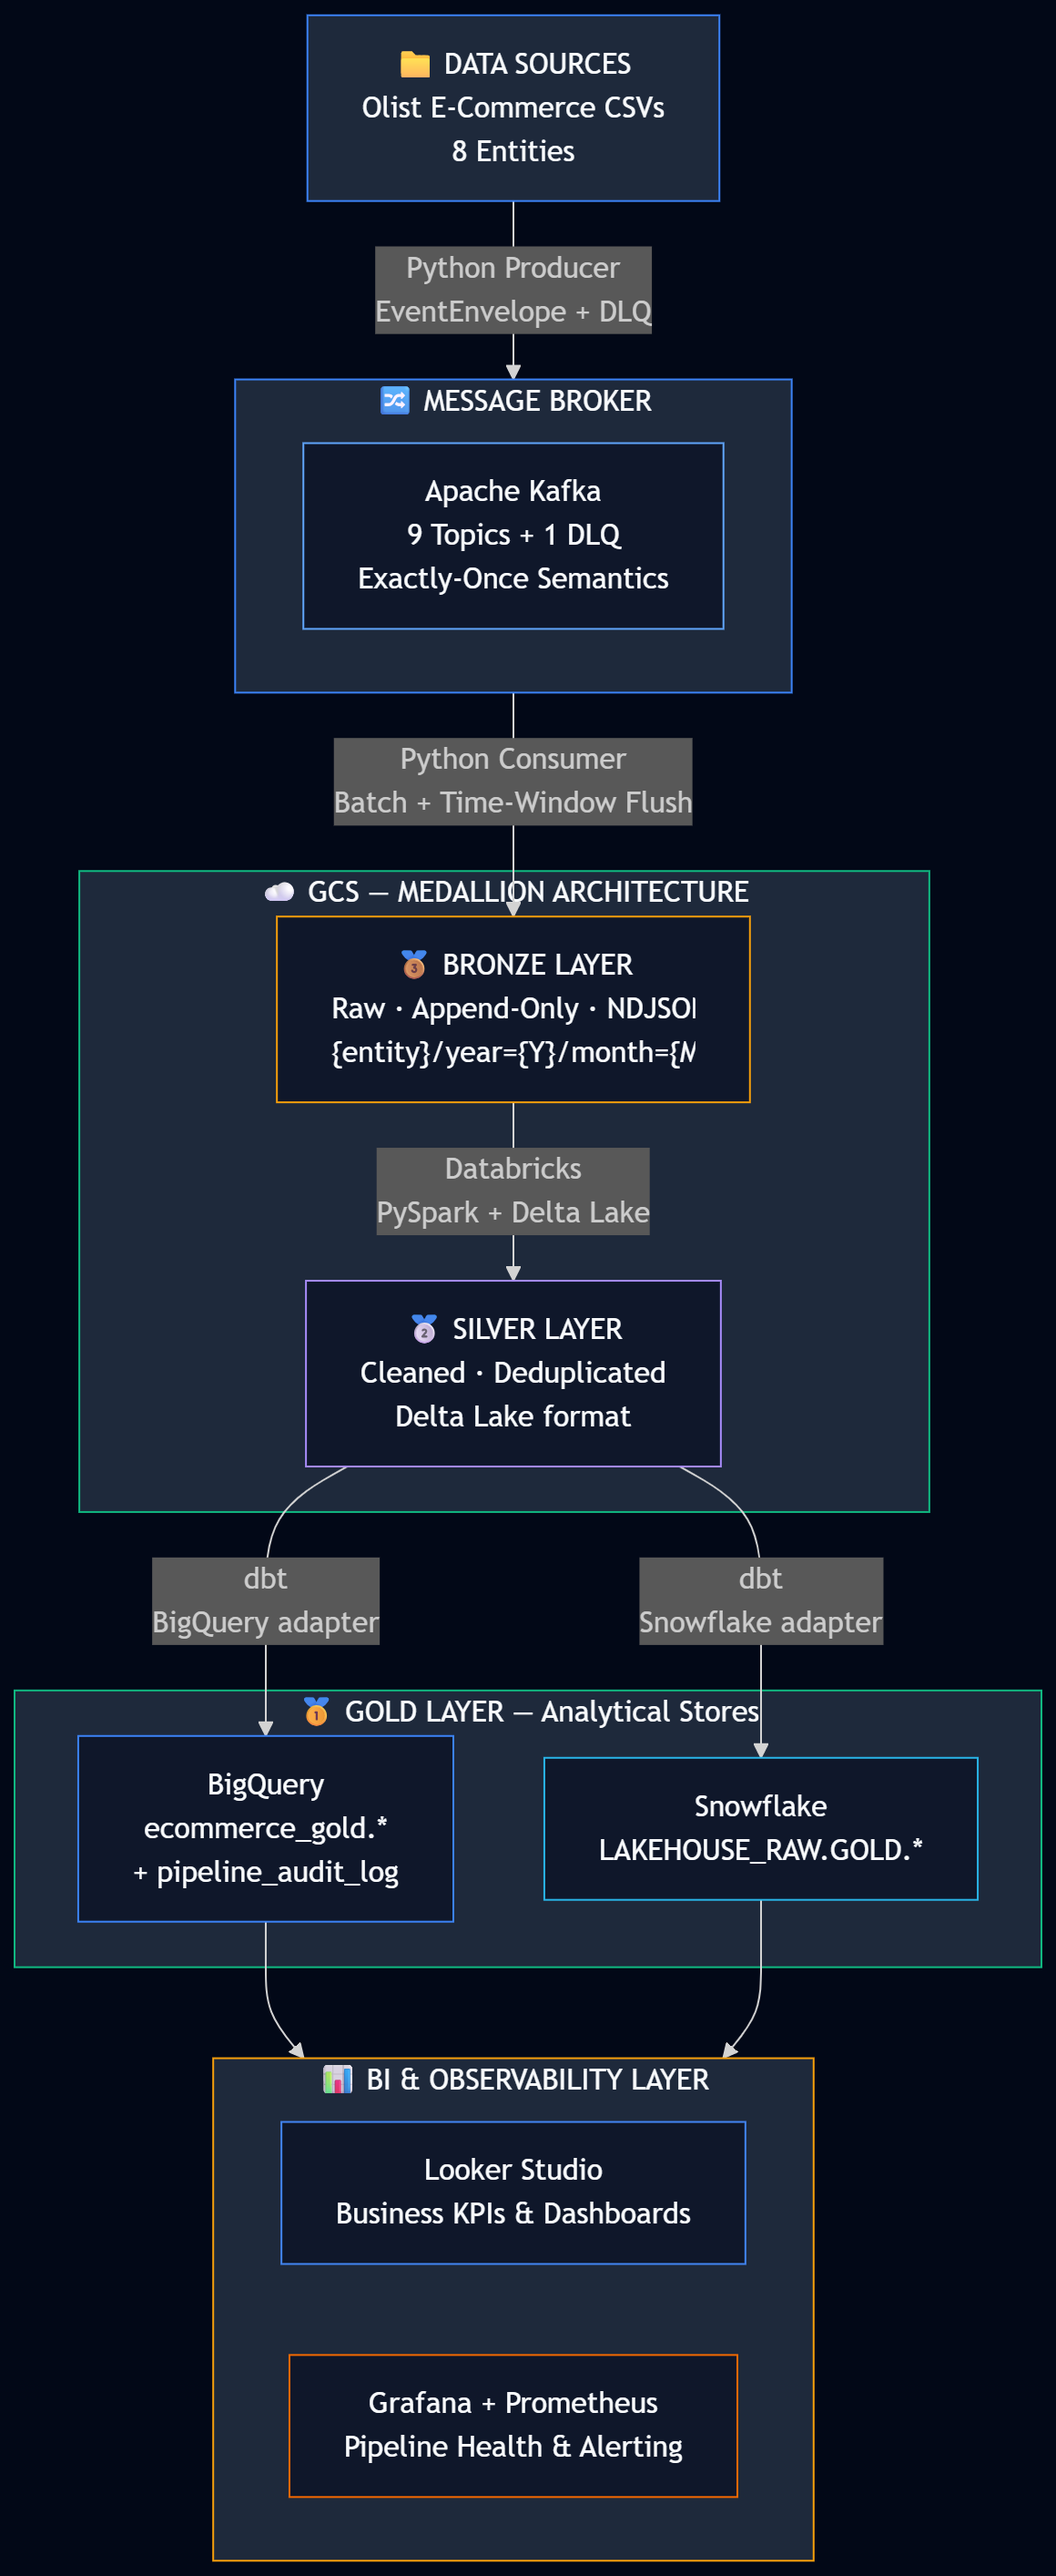
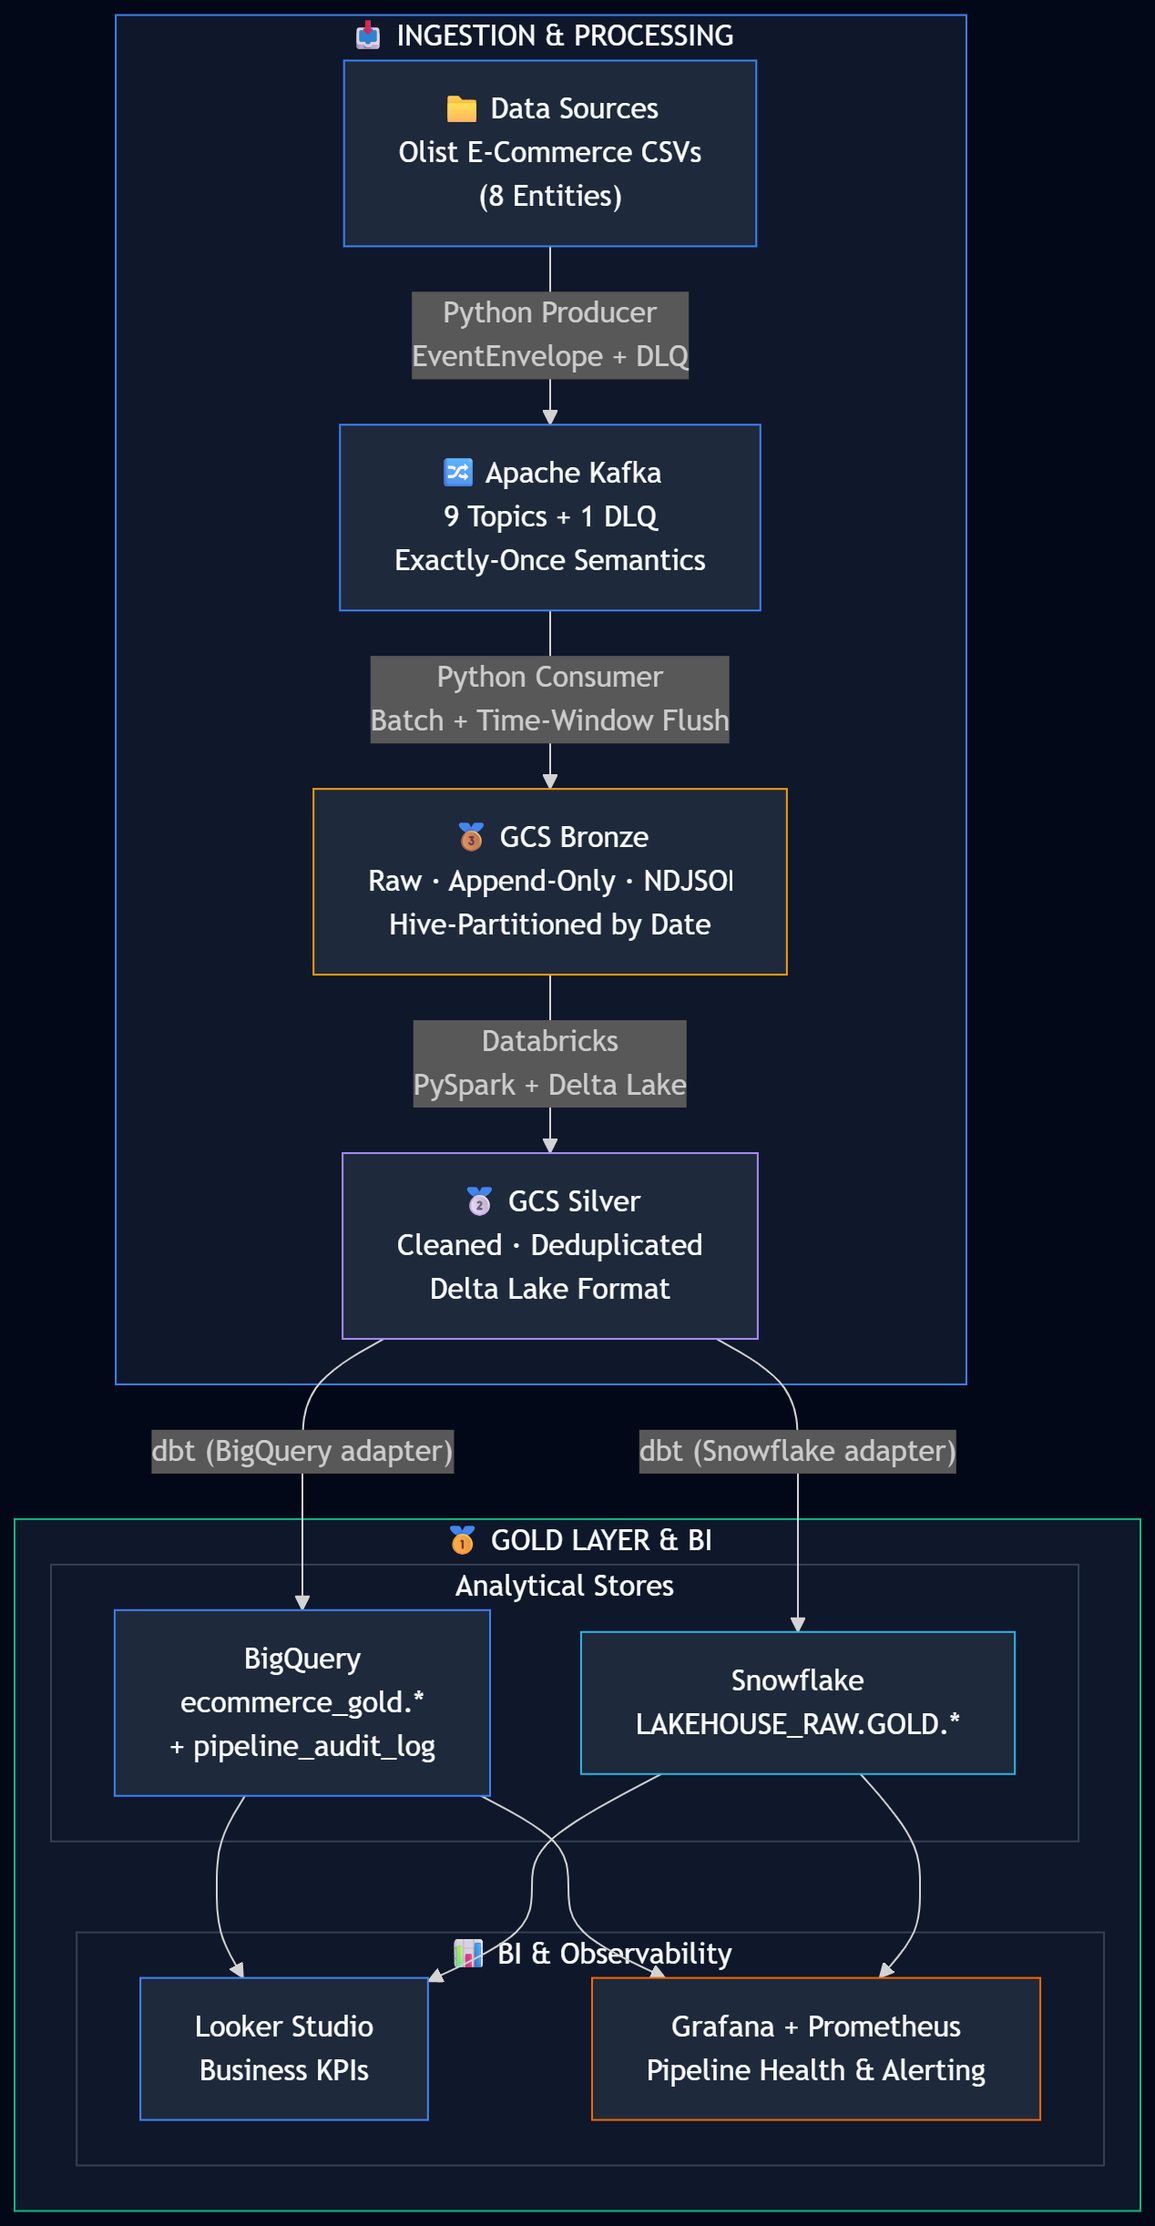
:art: Update architecture diagram for improved clarity and detail

diff --git a/README.md b/README.md
@@ -93,50 +93,45 @@ This is the kind of edge case you only discover by building — not by reading d
 
 ```mermaid
 flowchart TD
-    DS["📁 DATA SOURCES\nOlist E-Commerce CSVs\n8 Entities"]
-
-    DS -->|"Python Producer\nEventEnvelope + DLQ"| K
-
-    subgraph K["🔀 MESSAGE BROKER"]
-        K1["Apache Kafka\n9 Topics + 1 DLQ\nExactly-Once Semantics"]
+    subgraph INGESTION["📥 INGESTION & PROCESSING"]
+        direction LR
+        DS["📁 Data Sources\nOlist E-Commerce CSVs\n(8 Entities)"] -->|"Python Producer\nEventEnvelope + DLQ"| K
+        K["🔀 Apache Kafka\n9 Topics + 1 DLQ\nExactly-Once Semantics"] -->|"Python Consumer\nBatch + Time-Window Flush"| BRZ
+        BRZ["🥉 GCS Bronze\nRaw · Append-Only · NDJSON\nHive-Partitioned by Date"] -->|"Databricks\nPySpark + Delta Lake"| SLV
+        SLV["🥈 GCS Silver\nCleaned · Deduplicated\nDelta Lake Format"]
     end
 
-    K -->|"Python Consumer\nBatch + Time-Window Flush"| BRZ
+    SLV -->|"dbt (BigQuery adapter)"| BQ
+    SLV -->|"dbt (Snowflake adapter)"| SF
 
-    subgraph GCS["☁ GCS — MEDALLION ARCHITECTURE"]
-        BRZ["🥉 BRONZE LAYER\nRaw · Append-Only · NDJSON\n{entity}/year={Y}/month={M}/day={D}/batch_{uuid}.json"]
-        SLV["🥈 SILVER LAYER\nCleaned · Deduplicated\nDelta Lake format"]
-        BRZ -->|"Databricks\nPySpark + Delta Lake"| SLV
+    subgraph GOLD["🥇 GOLD LAYER & BI"]
+        direction LR
+        subgraph ANALYTICAL["Analytical Stores"]
+            BQ["BigQuery\necommerce_gold.*\n+ pipeline_audit_log"]
+            SF["Snowflake\nLAKEHOUSE_RAW.GOLD.*"]
+        end
+        subgraph BI["📊 BI & Observability"]
+            LS["Looker Studio\nBusiness KPIs"]
+            GF["Grafana + Prometheus\nPipeline Health & Alerting"]
+        end
+        BQ --> LS
+        BQ --> GF
+        SF --> LS
+        SF --> GF
     end
 
-    SLV -->|"dbt\nBigQuery adapter"| BQ
-    SLV -->|"dbt\nSnowflake adapter"| SF
-
-    subgraph GOLD["🥇 GOLD LAYER — Analytical Stores"]
-        BQ["BigQuery\necommerce_gold.*\n+ pipeline_audit_log"]
-        SF["Snowflake\nLAKEHOUSE_RAW.GOLD.*"]
-    end
-
-    BQ --> BI
-    SF --> BI
-
-    subgraph BI["📊 BI & OBSERVABILITY LAYER"]
-        LS["Looker Studio\nBusiness KPIs & Dashboards"]
-        GF["Grafana + Prometheus\nPipeline Health & Alerting"]
-    end
-
+    style INGESTION fill:#0f172a,stroke:#3b82f6,color:#f8fafc
+    style GOLD fill:#0f172a,stroke:#10b981,color:#f8fafc
+    style ANALYTICAL fill:transparent,stroke:#334155,color:#f8fafc
+    style BI fill:transparent,stroke:#334155,color:#f8fafc
     style DS fill:#1e293b,stroke:#3b82f6,color:#f8fafc
     style K fill:#1e293b,stroke:#3b82f6,color:#f8fafc
-    style K1 fill:#0f172a,stroke:#60a5fa,color:#f8fafc
-    style GCS fill:#1e293b,stroke:#10b981,color:#f8fafc
-    style BRZ fill:#0f172a,stroke:#f59e0b,color:#f8fafc
-    style SLV fill:#0f172a,stroke:#a78bfa,color:#f8fafc
-    style GOLD fill:#1e293b,stroke:#10b981,color:#f8fafc
-    style BQ fill:#0f172a,stroke:#3b82f6,color:#f8fafc
-    style SF fill:#0f172a,stroke:#29b5e8,color:#f8fafc
-    style BI fill:#1e293b,stroke:#f59e0b,color:#f8fafc
-    style LS fill:#0f172a,stroke:#4285f4,color:#f8fafc
-    style GF fill:#0f172a,stroke:#f46800,color:#f8fafc
+    style BRZ fill:#1e293b,stroke:#f59e0b,color:#f8fafc
+    style SLV fill:#1e293b,stroke:#a78bfa,color:#f8fafc
+    style BQ fill:#1e293b,stroke:#3b82f6,color:#f8fafc
+    style SF fill:#1e293b,stroke:#29b5e8,color:#f8fafc
+    style LS fill:#1e293b,stroke:#4285f4,color:#f8fafc
+    style GF fill:#1e293b,stroke:#f46800,color:#f8fafc
 ```
 
 ---
